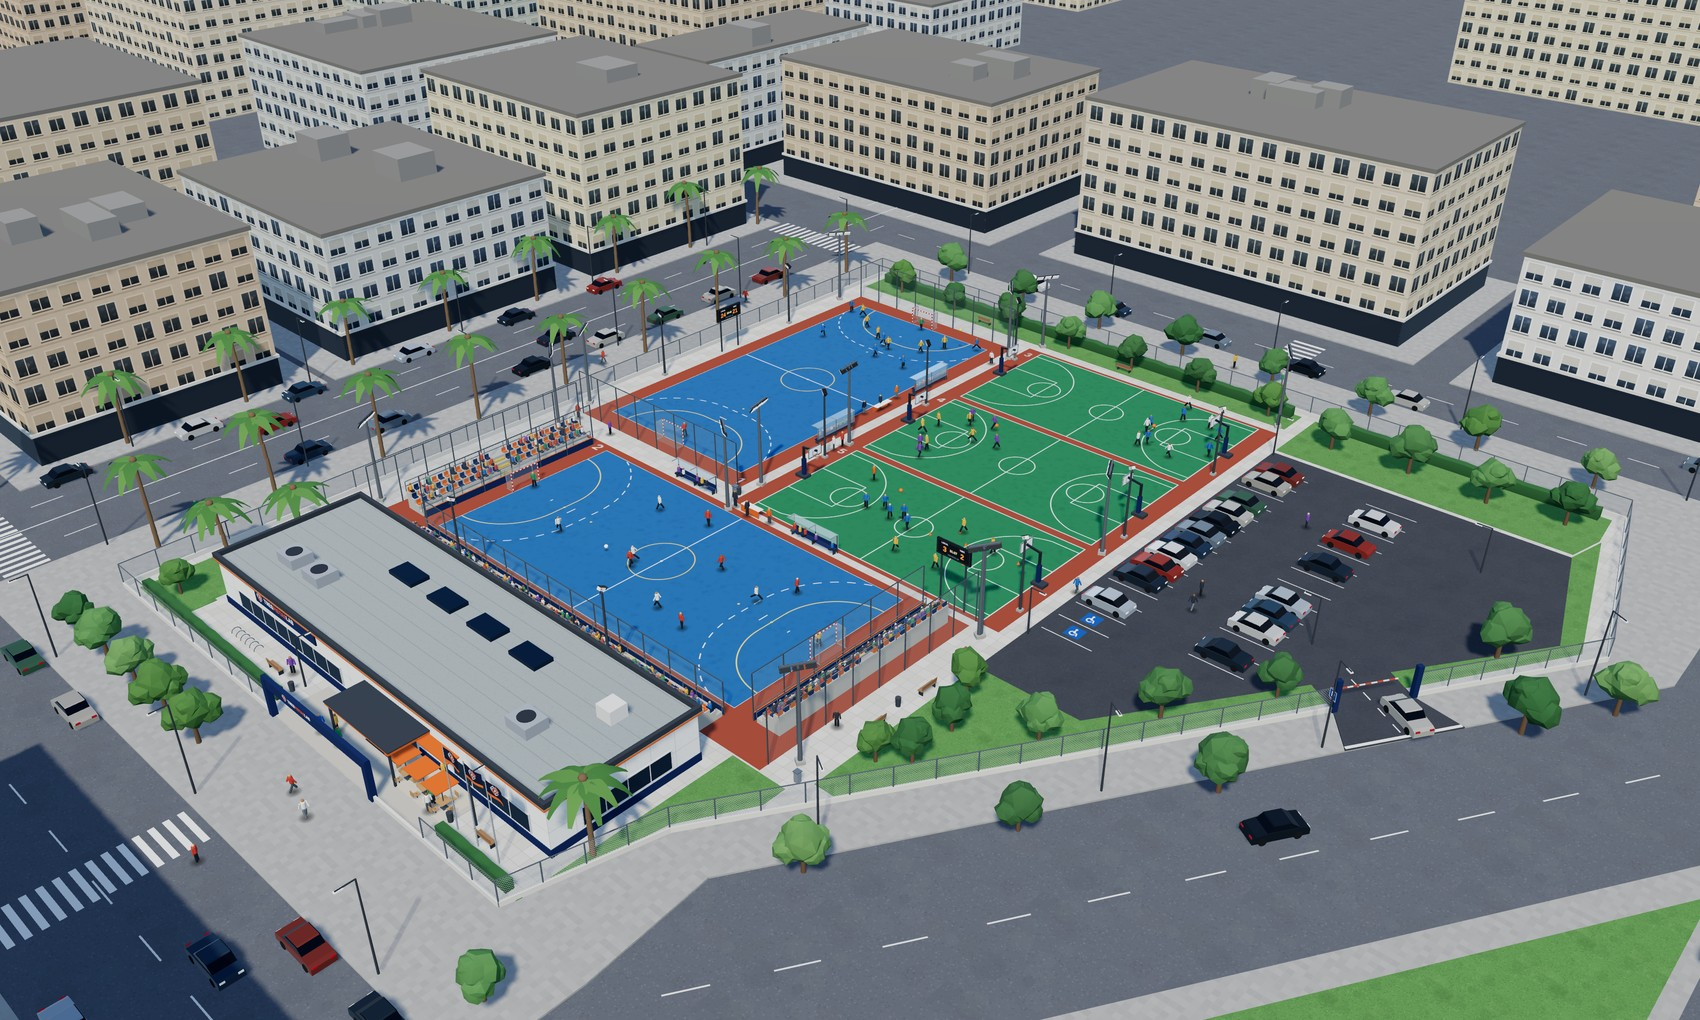
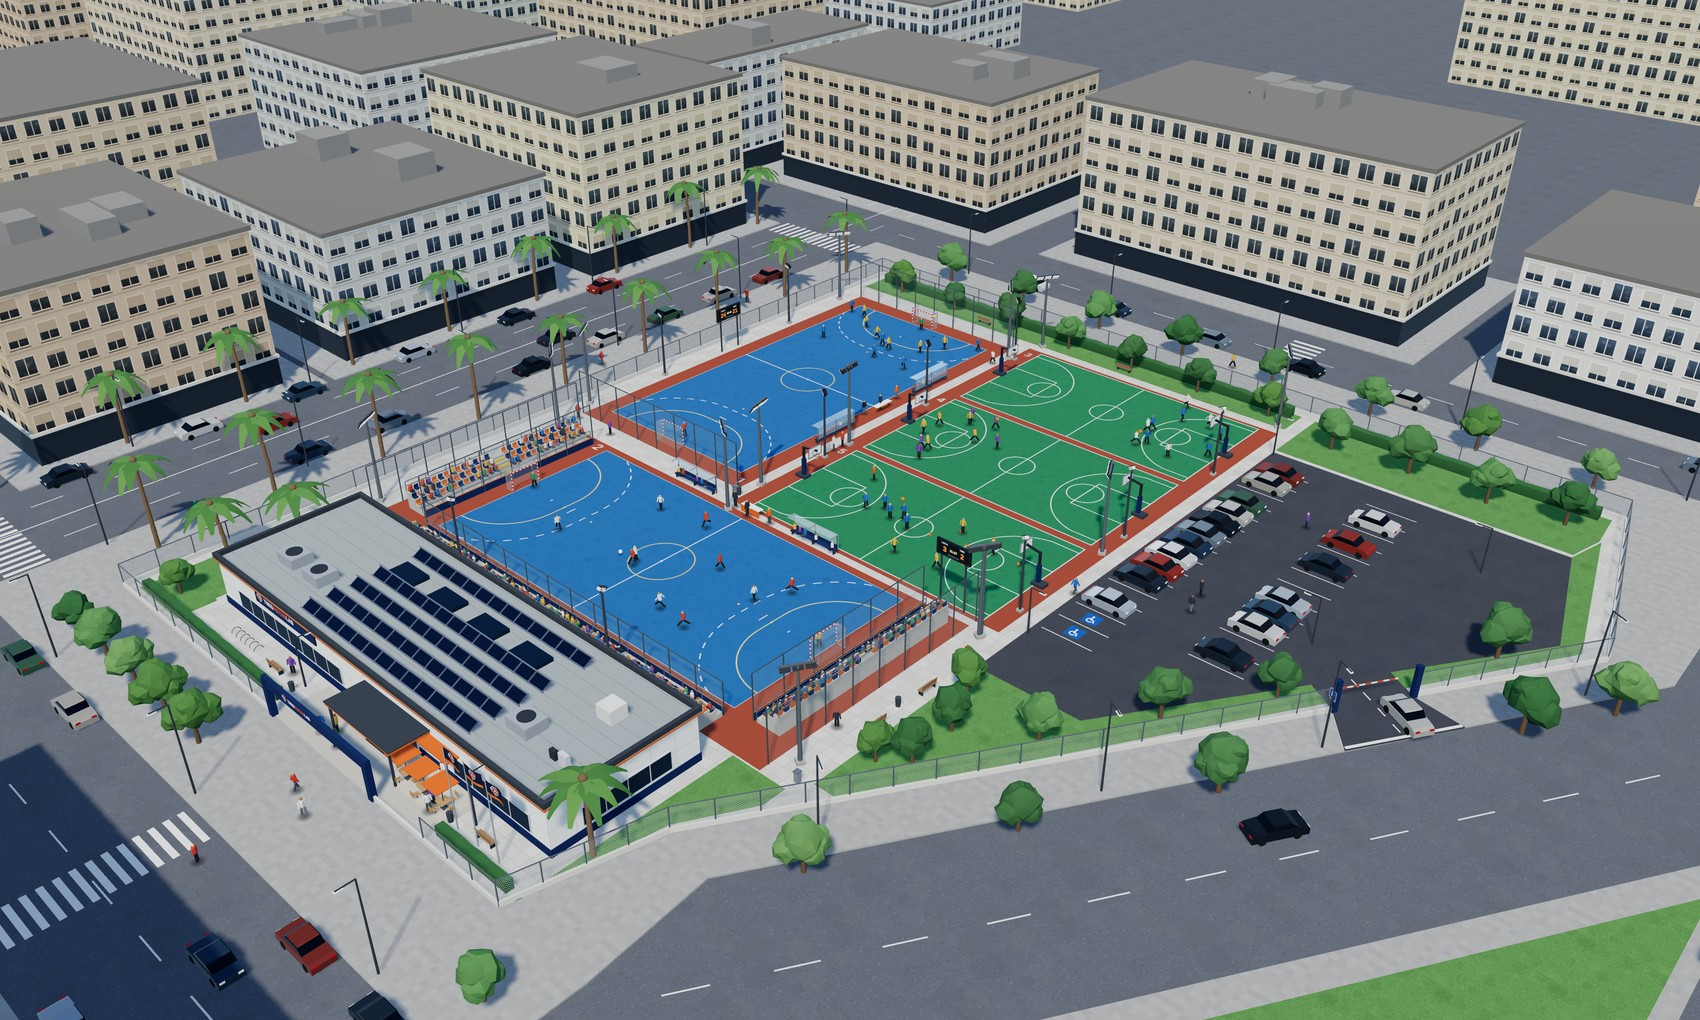
Añade las placas solares a la maqueta
La cubierta del edificio lleva ahora las cinco filas de módulos
fotovoltaicos del apartado 7.1.9 de la memoria, con su ficha
informativa, y la foto de la vista general de la web se ha vuelto a
renderizar para que se vean.

Claude-Session: https://claude.ai/code/session_01K8ZFpRv6jXuifMqqUVNyGd

diff --git a/maqueta/index.html b/maqueta/index.html
@@ -5265,6 +5265,49 @@ function buildScene(THREE, op) {
       B('techo', caja(3.2, 0.35, 1.8, matVidrio, x + w / 2 + dx, y + 9.3, zc));
     B('techo', caja(1.6, 1.2, 1.6, M(0xdcd9d1, 0.9), x + w - 4, y + 9, zc));
 
+    /* instalación fotovoltaica de autoconsumo: 65 módulos de 460 W en cinco
+       filas inclinadas 30° hacia el sur, en la banda libre de la cubierta. */
+    (function placas() {
+      const cv = document.createElement('canvas');
+      cv.width = 176; cv.height = 113;
+      const c2 = cv.getContext('2d');
+      c2.fillStyle = '#16213a'; c2.fillRect(0, 0, 176, 113);
+      c2.strokeStyle = '#30456b'; c2.lineWidth = 2;
+      for (let i = 1; i < 10; i++) {
+        c2.beginPath(); c2.moveTo(i * 17.6, 0); c2.lineTo(i * 17.6, 113); c2.stroke();
+      }
+      for (let j = 1; j < 6; j++) {
+        c2.beginPath(); c2.moveTo(0, j * 18.8); c2.lineTo(176, j * 18.8); c2.stroke();
+      }
+      c2.strokeStyle = '#99a2b0'; c2.lineWidth = 5;
+      c2.strokeRect(2.5, 2.5, 171, 108);
+      const matPlaca = new THREE.MeshStandardMaterial({
+        map: textura(cv, 1, 1, 8), roughness: 0.2, metalness: 0.5,
+      });
+      const matPerfil = M(0x97a0aa, 0.45, 0.65);
+      const INC = Math.PI / 6;                       // 30° de inclinación
+      const PW = 1.76, PL = 1.13;                    // módulo de 460 W
+      const prof = PL * Math.cos(INC);               // lo que ocupa en planta
+      const base = zc + 0.18;                        // altura del perfil
+      for (const fv of [6.3, 8.4, 10.5, 12.6, 16.4]) {
+        // perfil continuo que sujeta la fila
+        B('techo', sinSombra(caja(13 * PW + 0.2, 0.08, 0.1, matPerfil,
+          x + 23.84, fv - prof / 2 + 0.06, base)));
+        B('techo', sinSombra(caja(13 * PW + 0.2, 0.08, 0.1, matPerfil,
+          x + 23.84, fv + prof / 2 - 0.06, base + PL * Math.sin(INC))));
+        for (let k = 0; k < 13; k++) {
+          const me = new THREE.Mesh(new THREE.BoxGeometry(PW - 0.03, 0.04, PL), matPlaca);
+          me.rotation.x = INC;
+          me.position.set(x + 12.4 + k * PW + PW / 2, base + PL * Math.sin(INC) / 2, -fv);
+          me.castShadow = true; me.receiveShadow = true;
+          B('techo', me);
+        }
+      }
+      // inversor y cuadro, en el testero este de la cubierta
+      B('techo', caja(0.9, 1.1, 0.4, M(0xd7d9dc, 0.7, 0.2), x + w - 2.2, y + 3.4, zc));
+      B('techo', caja(0.6, 0.8, 0.35, M(0x3d4349, 0.7, 0.3), x + w - 3.4, y + 3.4, zc));
+    })();
+
     // rótulo sobre la fachada sur, con la marca
     const tx = new THREE.CanvasTexture(TEX.rotulo(1600, 200, '#16305c'));
     tx.colorSpace = SRGB; tx.anisotropy = 8;
@@ -6836,6 +6879,15 @@ function buildScene(THREE, op) {
           ['Cuándo', 'Acondicionamiento previsto en el segundo año']],
         interior: true,
         vista: [[52, 24, 12], [48, 0, -11], 44] } },
+    { t: 'Placas solares', p: [32.8, 7.4, -11.4],
+      f: { titulo: 'Fotovoltaica de autoconsumo', sub: '30 kWp sobre la cubierta del edificio',
+        datos: [['Potencia', '30 kWp, 65 módulos de 460 W'],
+          ['Superficie', 'Unos 130 m² de módulo, en cinco filas a 30°'],
+          ['Producción', '49.560 kWh al año (1.652 kWh por kWp en Málaga)'],
+          ['Ahorro', 'Unos 5.650 € al año: la factura baja de 2.200 a 1.730 € al mes'],
+          ['Excedentes', 'Lo que no se consume se vierte a la red y se compensa'],
+          ['Sin baterías', 'Almacenar la tarde costaría más que toda la instalación']],
+        vista: [[46, 20, 26], [32, 5, -11], 40] } },
     { t: 'Aparcamiento', p: [76, 4.4, -66],
       f: { titulo: 'Aparcamiento', sub: 'Existente, dentro de la parcela',
         datos: [['Situación', 'Lado este de la parcela'], ['Estado', 'Se conserva el actual'],
